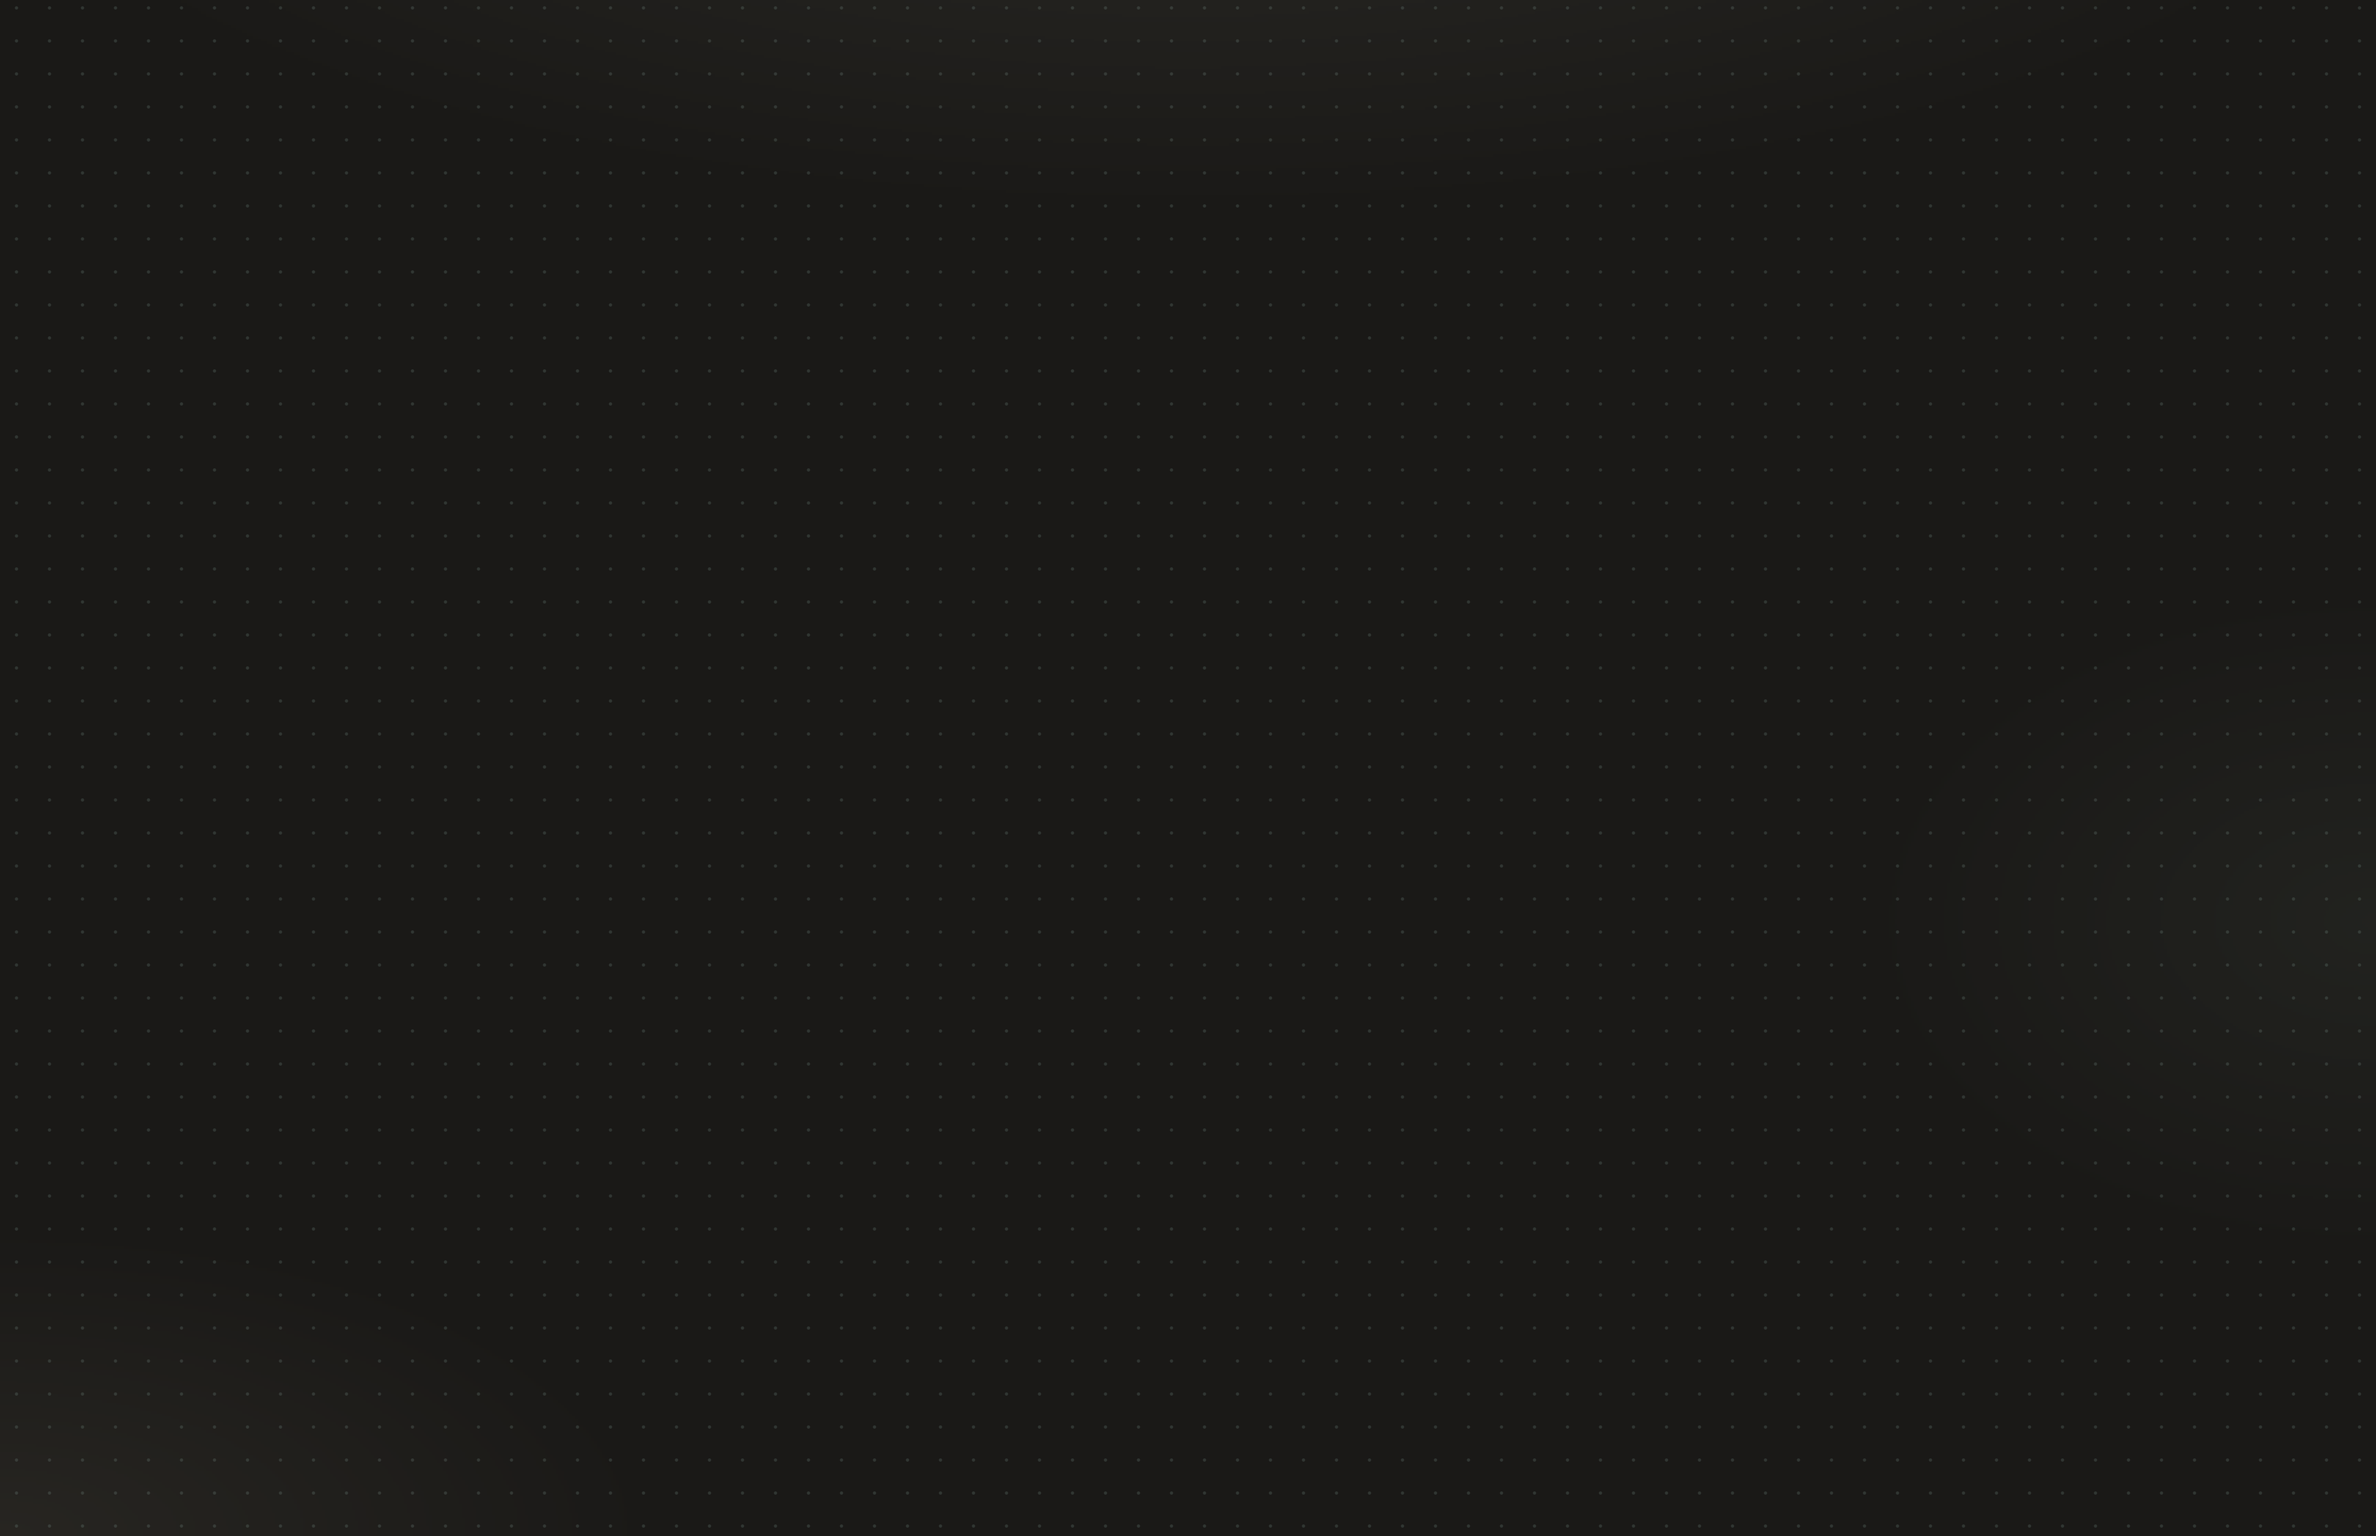
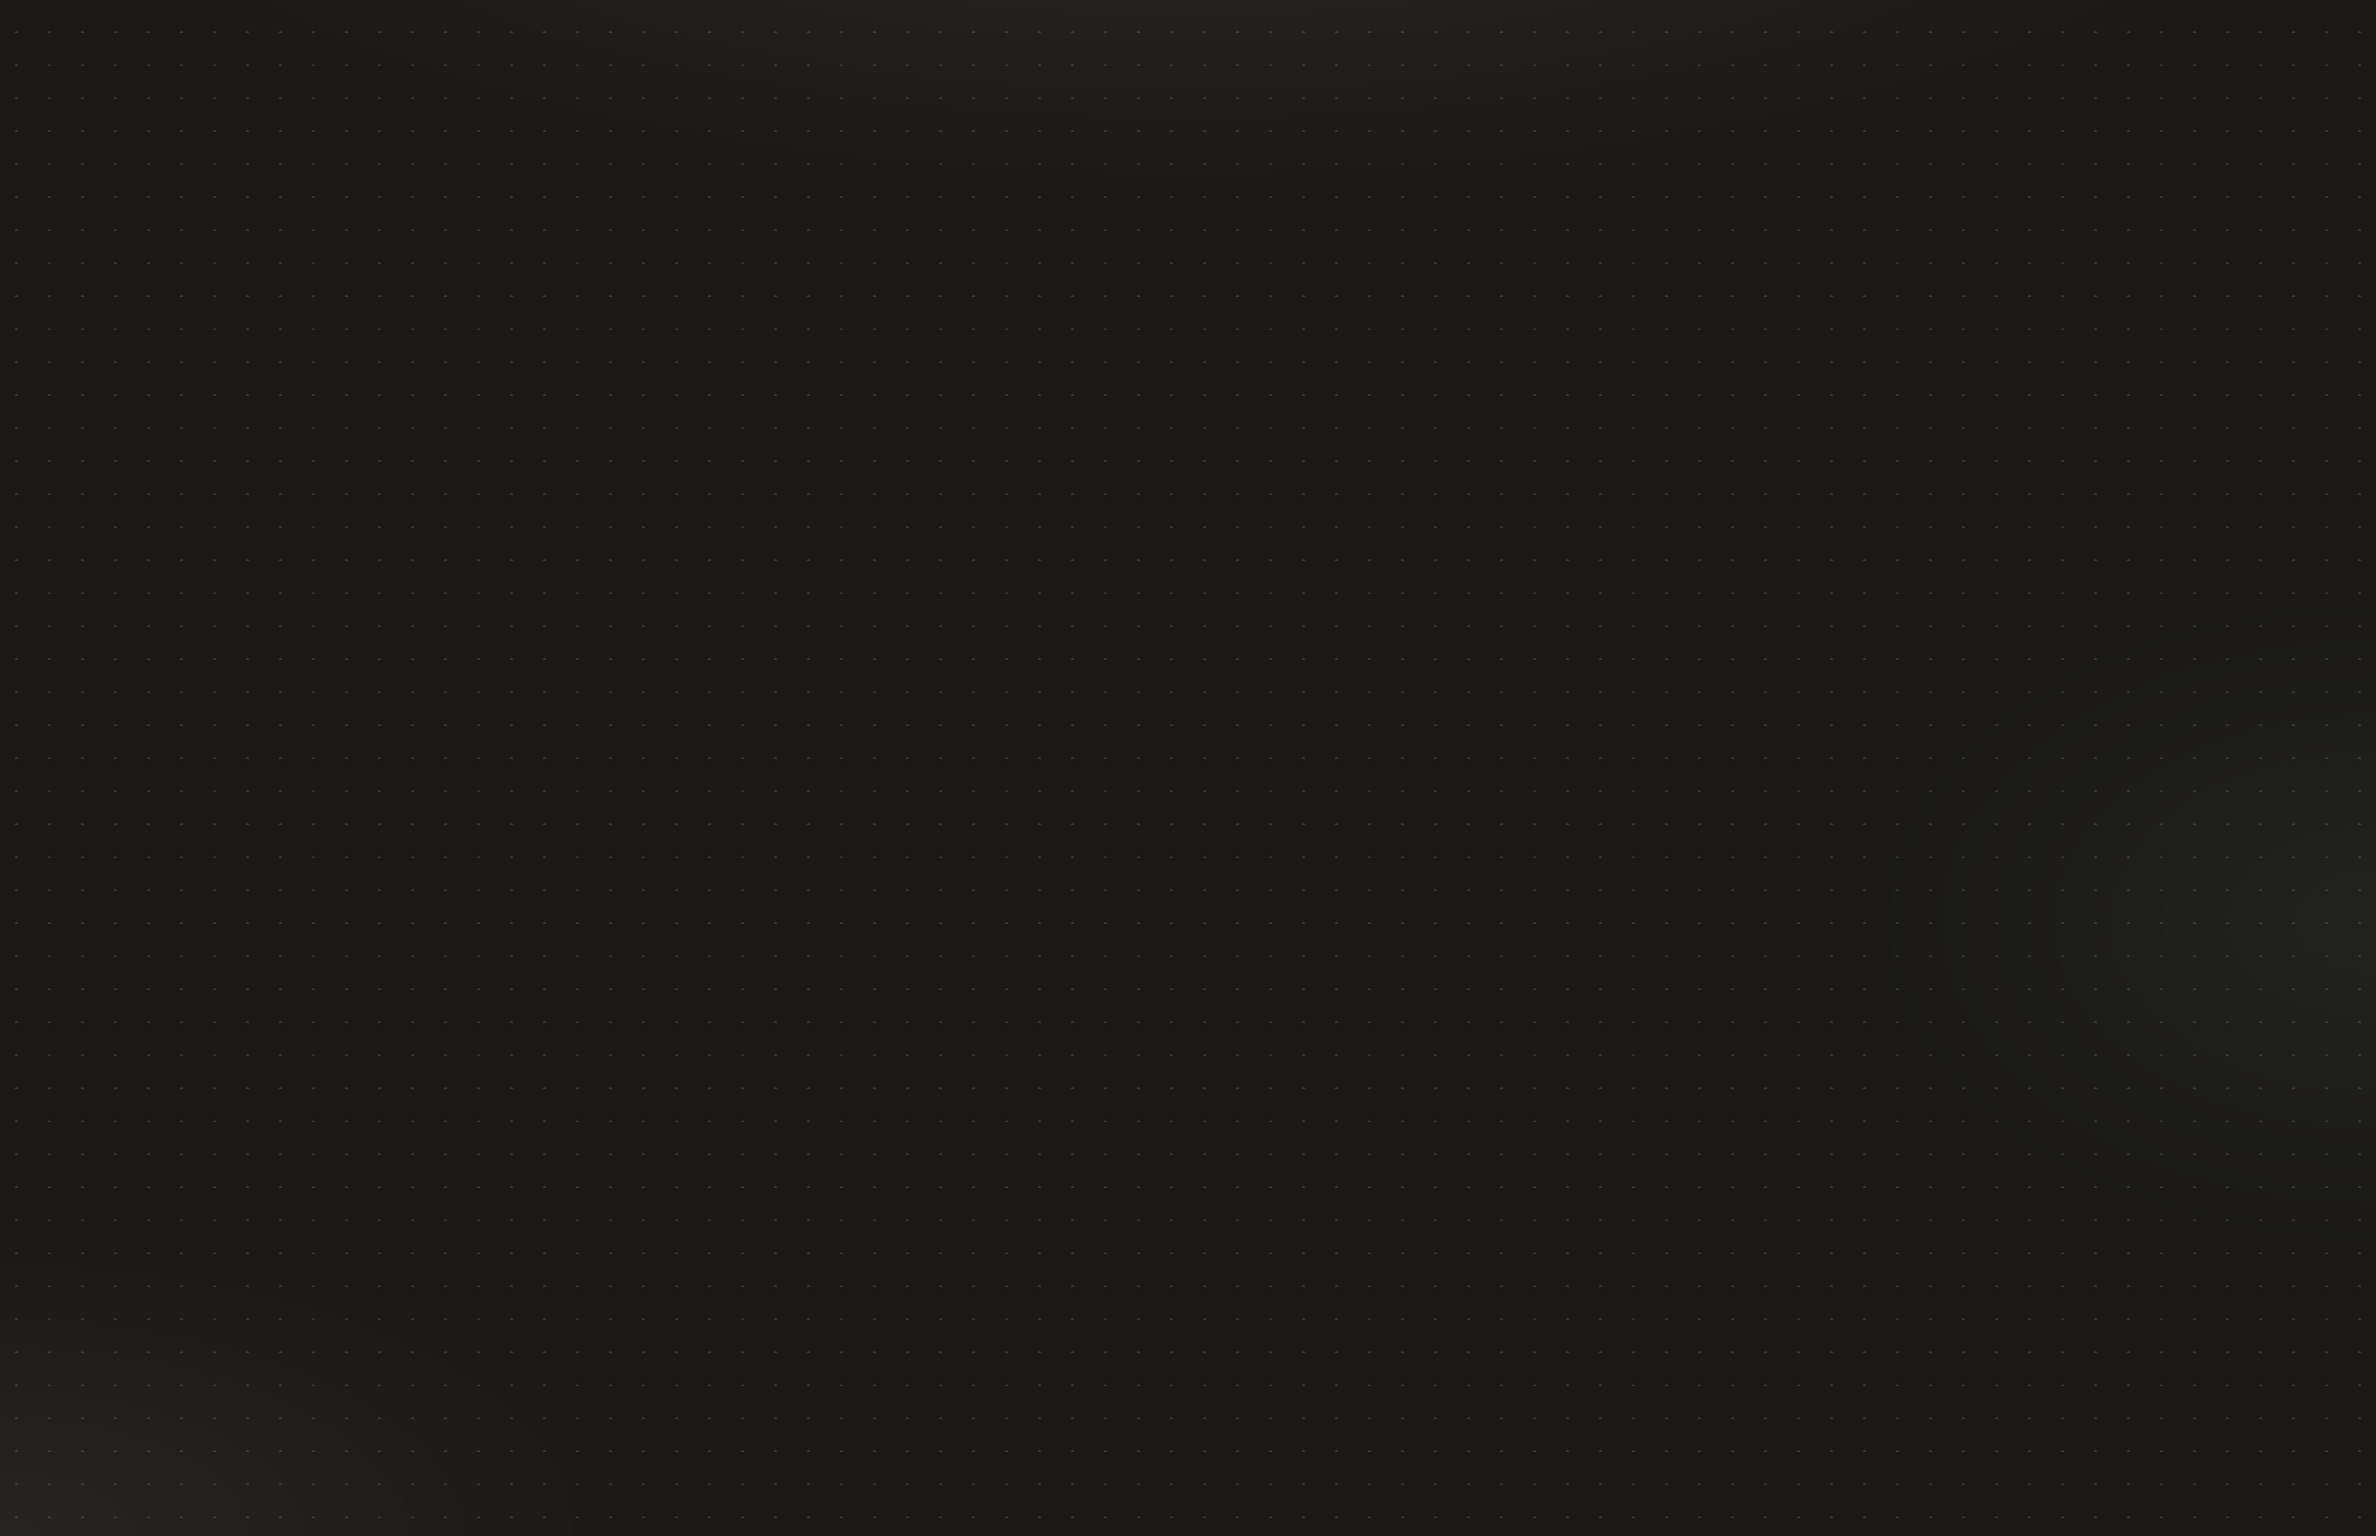
Uniform window chrome: hidden titlebar + rebaked dot phase
Ghostty anchors the background image to the window top INCLUDING chrome,
so titled vs fullscreen/tabbed windows disagree on dot phase by titlebar
height mod 48 (~12px @2x) — one bake can't align both. Fix: hide the
titlebar everywhere and calibrate for chromeless windows (dot cy 11.5 ->
47.5 @2x; @1x predicted 4.75, verify on the LG when docked).

diff --git a/tools/bake-backgrounds.py b/tools/bake-backgrounds.py
@@ -56,9 +56,14 @@ MODES = {
 # Per-scale defaults: tile size, dot solid/fade radii, calibrated dot center.
 # cy values were measured from screenshots on the original displays (16"
 # MacBook Pro retina @2x; LG ultrawide @1x) — see README for the procedure.
+# CALIBRATED FOR CHROMELESS WINDOWS (macos-titlebar-style = hidden): Ghostty
+# anchors the background to the window top INCLUDING chrome, so a titlebar
+# shifts the dots by its height mod the pitch (~12px @2x). Titled-window
+# values were cy 11.5 (2x) / 10.75 (1x); hidden-titlebar = those - 12 / - 6.
+# The 1x value is PREDICTED, not yet verified on the LG — recalibrate there.
 SCALES = {
-    "2x": {"tile": 48, "r_in": 2.0, "r_out": 2.7, "cx": 24.0, "cy": 11.5},
-    "1x": {"tile": 24, "r_in": 1.0, "r_out": 1.35, "cx": 12.0, "cy": 10.75},
+    "2x": {"tile": 48, "r_in": 2.0, "r_out": 2.7, "cx": 24.0, "cy": 47.5},
+    "1x": {"tile": 24, "r_in": 1.0, "r_out": 1.35, "cx": 12.0, "cy": 4.75},
 }
 
 
